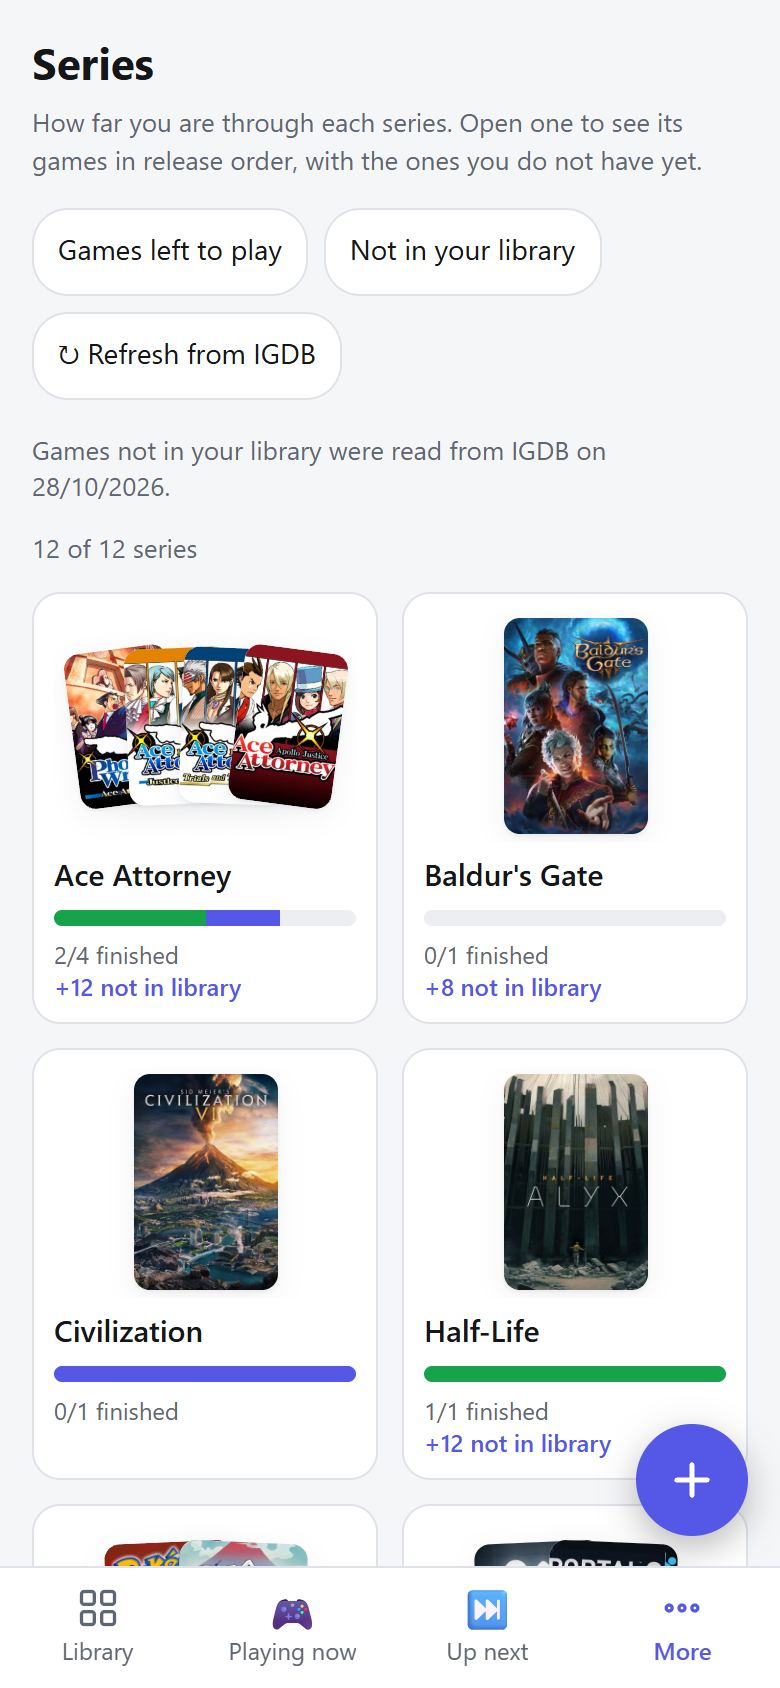
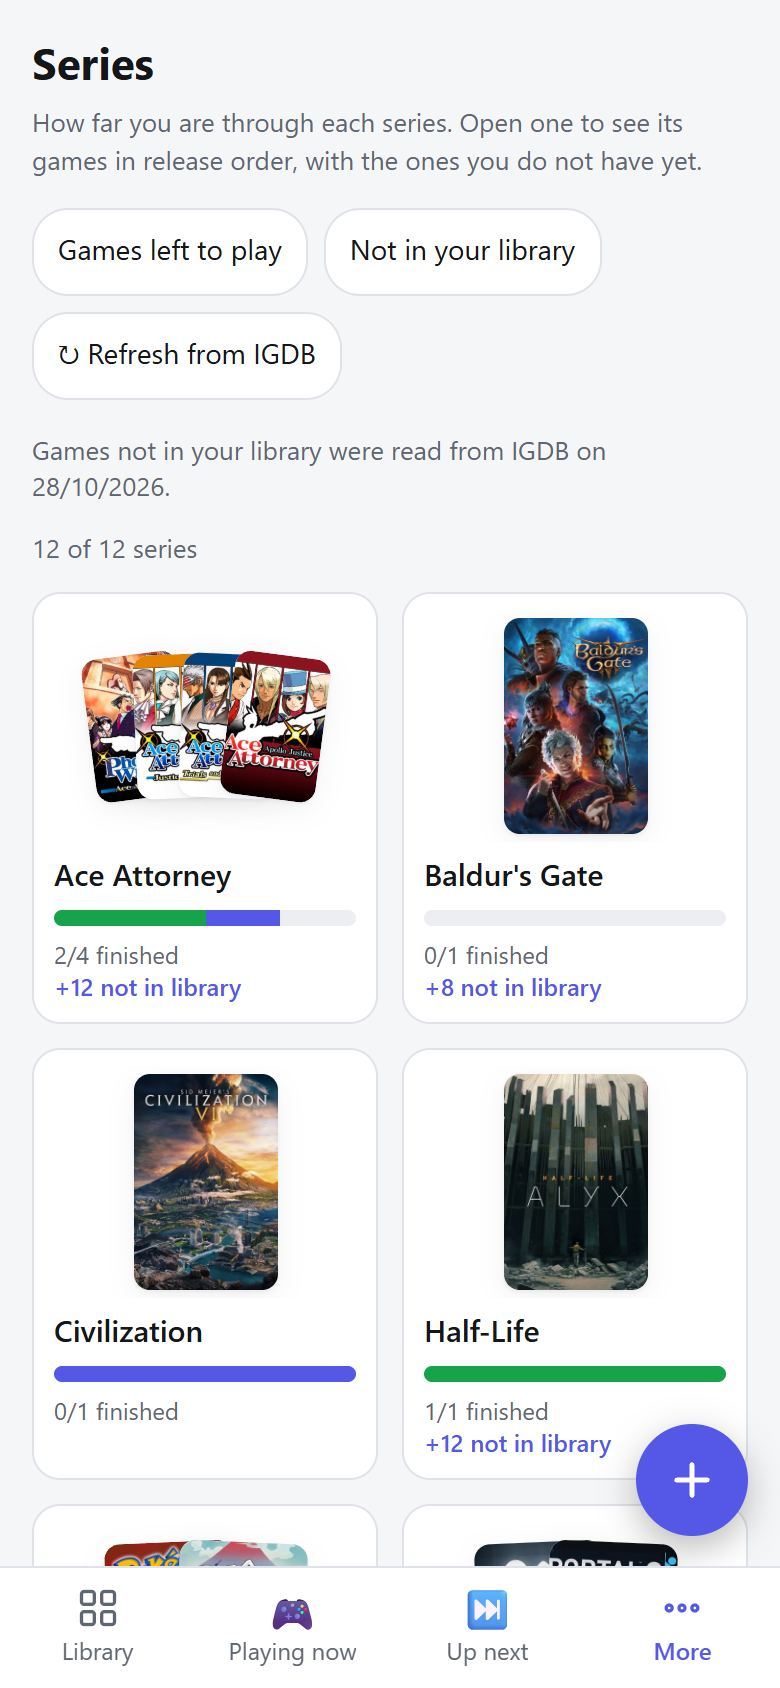
PR 8 review fixes: fan fits 360-1280px, desktop-only bottom padding, IGDB-linked posters first, wrong-poster note

Changed region(s): [[0.0615, 0.3697, 0.4615, 0.4929]]

diff --git a/web/static/styles.css b/web/static/styles.css
@@ -567,7 +567,8 @@ table.wait .num { text-align: right; font-variant-numeric: tabular-nums; }
 .oldest small { color: var(--muted); font-size: 12px; }
 .sr-only { position: absolute; width: 1px; height: 1px; overflow: hidden; clip: rect(0 0 0 0); white-space: nowrap; }
 /* ---- series page: tiles with a fan of posters, and a series opened as a poster shelf ---- */
-.series-page { max-width: 1100px; padding-bottom: calc(96px + env(safe-area-inset-bottom)); } /* clear of the + button */
+.series-page { max-width: 1100px; }
+@media (min-width: 900px) { .series-page { padding-bottom: 96px; } } /* clear of the + button (on phones #view already is) */
 .stitle { font-weight: 600; overflow-wrap: anywhere; }
 .sbar { display: flex; height: 8px; border-radius: 4px; background: var(--surface-2); overflow: hidden; }
 .sbar .fin { background: #16a34a; }
@@ -582,8 +583,8 @@ table.wait .num { text-align: right; font-variant-numeric: tabular-nums; }
 /* The fan sits inside the tile: the poster width shrinks with the count so the spread (width + 3 steps) always fits. */
 .fan { --w: 72px; --step: 0px; position: relative; display: block; height: 116px; overflow: hidden; } /* one height for every tile, so the titles line up */
 .fan[data-n="2"] { --w: 64px; --step: 30px; }
-.fan[data-n="3"] { --w: 58px; --step: 28px; }
-.fan[data-n="4"] { --w: 52px; --step: 24px; }
+.fan[data-n="3"] { --w: 54px; --step: 26px; }
+.fan[data-n="4"] { --w: 48px; --step: 20px; }
 .fan .pst { position: absolute; left: 50%; bottom: calc((116px - var(--w) * 1.5) / 2); width: var(--w); margin-left: calc(var(--w) / -2); transform-origin: 50% 100%; transform: translateX(calc(var(--i) * var(--step))) rotate(calc(var(--i) * 5deg)); z-index: 1; }
 .pst { position: relative; display: block; aspect-ratio: 2 / 3; border-radius: 8px; overflow: hidden; background: var(--surface-2); box-shadow: var(--shadow); }
 .pst img, .pst .ph { width: 100%; height: 100%; object-fit: cover; display: grid; place-items: center; color: #fff; font-weight: 700; font-size: 14px; text-align: center; }

diff --git a/web/static/js/series.js b/web/static/js/series.js
@@ -152,10 +152,15 @@ export function shelfItems(s, extra) {
 /**
  * Up to `n` games whose pictures make the series' fan on its tile, in release order: the games with a portrait poster
  * (`hasPoster`); when none has one, the games with any image (`hasImage`, default `hasPoster`); else the first games.
+ * Among the posters, the games `prefer` accepts (linked to IGDB: their poster is IGDB's own cover, not a fuzzy
+ * SteamGridDB match) are taken first; the pick is shown in release order.
  */
-export function fanGames(s, hasPoster, n = 4, hasImage = hasPoster) {
+export function fanGames(s, hasPoster, n = 4, hasImage = hasPoster, prefer = () => false) {
   const posters = s.games.filter(hasPoster);
-  if (posters.length) return posters.slice(0, n);
+  if (posters.length) {
+    const first = [...posters.filter(prefer), ...posters.filter((g) => !prefer(g))].slice(0, n);
+    return posters.filter((g) => first.includes(g));
+  }
   const withImg = s.games.filter(hasImage);
   return (withImg.length ? withImg : s.games).slice(0, n);
 }

diff --git a/web/static/js/seriesview.js b/web/static/js/seriesview.js
@@ -115,7 +115,7 @@ export function renderSeries(root, openKey = null) {
   // ---- the page of tiles ----
   function tile(s) {
     const extra = extraOf(index, s);
-    const games = fanGames(s, hasPoster, 4, (g) => !!imageOf(g));
+    const games = fanGames(s, hasPoster, 4, (g) => !!imageOf(g), (g) => g.igdb_id != null);
     const n = extra.missing.length;
     return h('a.tile', { href: href(s.key), 'aria-label': `${s.name}: ${seriesSummary(s, extra)}` },
       h('span.fan', { 'aria-hidden': 'true', 'data-n': String(games.length) }, games.map((g, i) => {

diff --git a/docs/user-manual.md b/docs/user-manual.md
@@ -237,7 +237,7 @@ The rankings and their PNG use a **portrait poster** of each game, made for you 
 
 ## 12. Series progress
 
-Open **Series** in the navigation (**More** on a phone) to see how far you are through every series. Each series is a tile: a fan of its posters, its name, a progress bar and *2/4 finished*. Tap a tile to open the series on its own page (the phone's back button returns to the tiles): its games are posters in release order, with a line such as *3 finished · 4 played · 5 games · 1 left to play*. Tap a poster to open the game's details. A green ✓ on a poster means finished, a ▶ means played; posters of games you have not played yet are a little paler.
+Open **Series** in the navigation (**More** on a phone) to see how far you are through every series. Each series is a tile: a fan of its posters, its name, a progress bar and *2/4 finished*. Tap a tile to open the series on its own page (the phone's back button returns to the tiles): its games are posters in release order, with a line such as *3 finished · 4 played · 5 games · 1 left to play*. Tap a poster to open the game's details. A green ✓ on a poster means finished, a ▶ means played; posters of games you have not played yet are a little paler. A tile's fan shows up to four posters, preferring games linked to IGDB. If a game has a wrong poster (for example a game that is not linked to IGDB got a look-alike from SteamGridDB), open the game and tap **Change poster** ([The poster](#the-poster-portrait-picture)). A game with only a wide cover shows it whole on a dark background instead of cropped.
 
 - **Finished** means the game's status is **Finished**.
 - **Played** means you have started it: it is Finished, or its status is Playing, Playing - Evergreen, Evergreen, Hold or Dropped, or it has any year (or Childhood / Always) in *Played in*. Finished games count as played too.

diff --git a/CHANGELOG.md b/CHANGELOG.md
@@ -36,7 +36,7 @@ All notable changes to DeltaBacklog are documented here. The format follows [Kee
 - With the Theme button set against the system theme, scrollbars and form controls now follow the app's theme.
 - Quick add maps the IGDB platform names `NSW` and `PS` the way the IGDB sync does.
 
-- **Series page layout**: a tile shows the game's portrait poster, or its wide cover whole (letterboxed) instead of cropping it; the poster fan fits inside the tile for 1 to 4 posters and prefers real posters; tiles are tighter ("+N not in library" on its own line); on a series' shelf the Add/Hide buttons sit at the bottom of every cell, and the page leaves room for the + button.
+- **Series page layout**: a tile shows the game's portrait poster, or its wide cover whole (letterboxed) instead of cropping it; the poster fan fits inside the tile for 1 to 4 posters and prefers real posters; tiles are tighter ("+N not in library" on its own line); on a series' shelf the Add/Hide buttons sit at the bottom of every cell, and the page leaves room for the + button. A series' fan prefers posters of games linked to IGDB; if a poster is wrong (a fuzzy SteamGridDB match for a game that is not linked), open the game and use **Change poster**.
 ### Changed
 - The repository is now a public showcase, not a community project: README status note and "How this was built" section, CONTRIBUTING explains that contributions are not accepted, and the code of conduct, issue forms and pull request template were removed. Dependabot runs monthly with grouped updates.
 - Deploys are stamped with a version from `git describe`; idle connections are closed after 2 minutes; CI fails on unformatted Go code.
